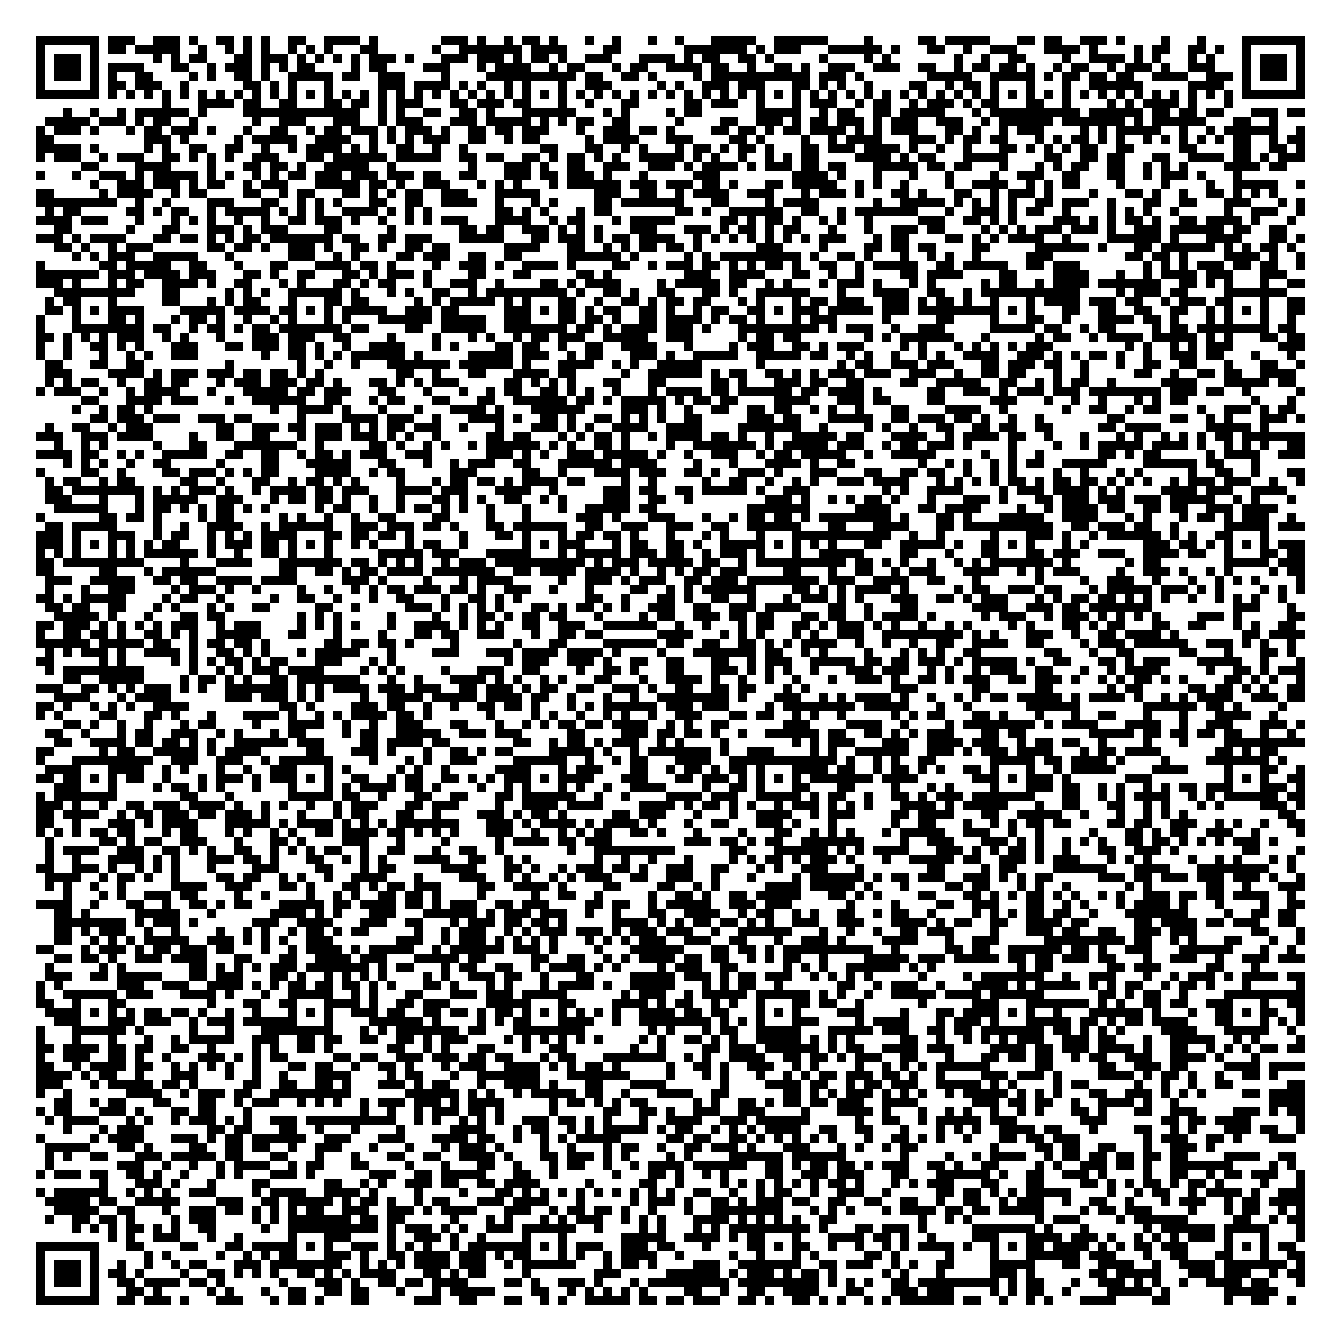
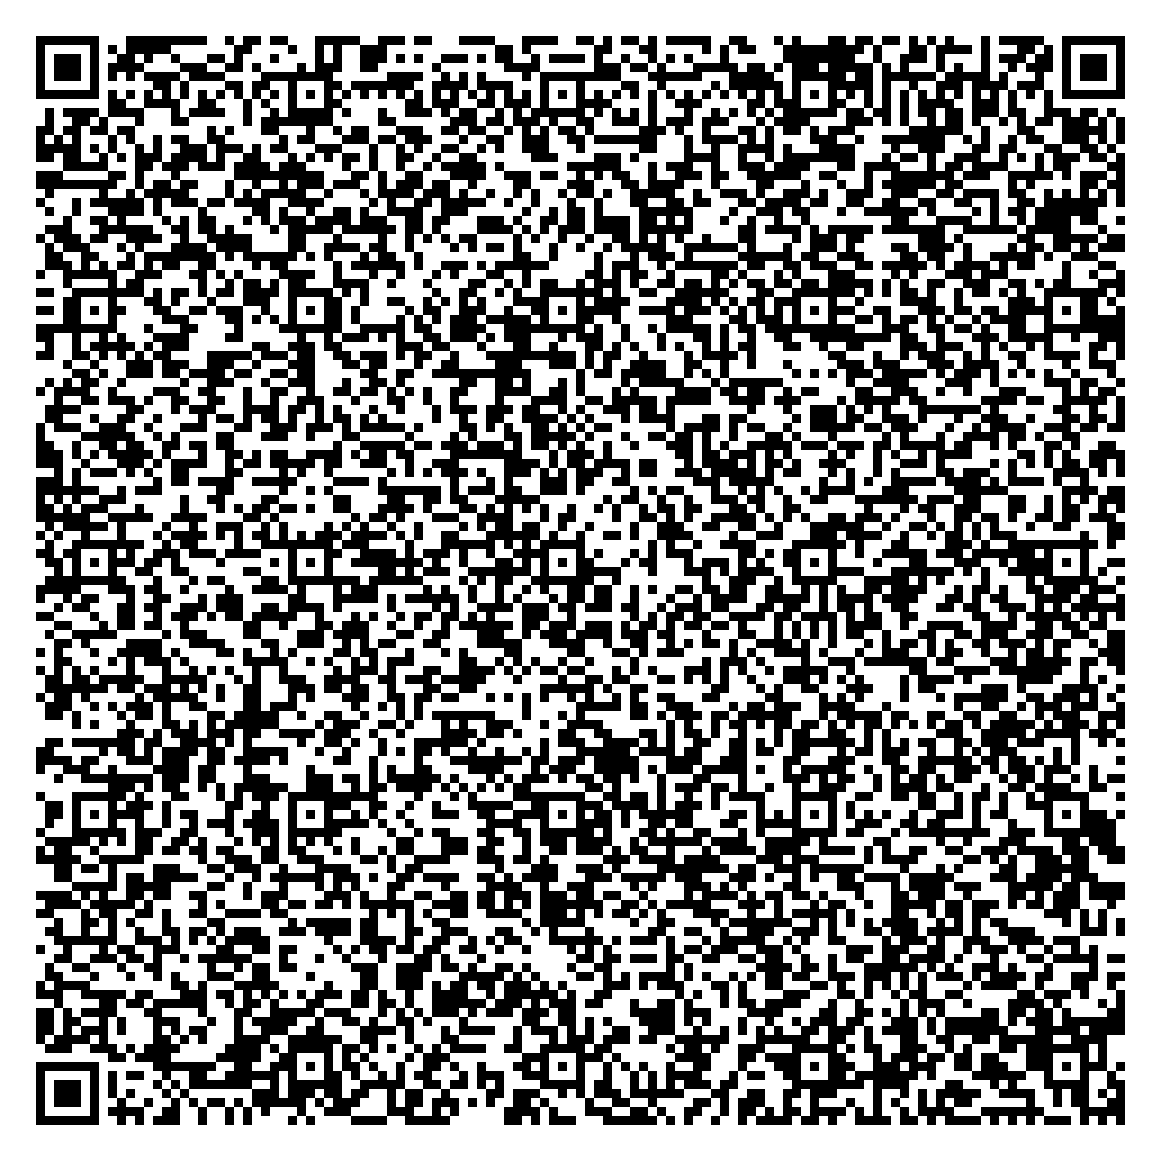
several minor changes

diff --git a/Gaqioi/Gaqioi.py b/Gaqioi/Gaqioi.py
@@ -1,1 +1,1 @@
-with open(__file__, 'r') as f: exec('try:\n    from MyQR import myqr\n    name = input(\u0022Gaqioi\\nCopyright (C) 2019 UniGasiX\\nLicensed under GPL v3.0\\n\u8bf7\u6307\u5b9a\u8f93\u51fa\u56fe\u7247\u7684\u6587\u4ef6\u540d\uff08\u4e0d\u542b\u6269\u5c55\u540d\uff09\uff1a\u0022)\n    myqr.run(\'' + f.read().replace('\\', '\\\\').replace('\'', '\\\'') + '\', save_name=name+\u0022.png\u0022)\nexcept ModuleNotFoundError:\n    print(\u0022\u9519\u8bef\uff01\u8fd9\u6bb5\u7a0b\u5e8f\u9700\u8981MyQR\u5e93\u3002\\n\u53ef\u4ee5\u5c1d\u8bd5\u547d\u4ee4 pip3 install myqr \u5b89\u88c5MyQR\u5e93\u3002\u0022)\n') # Copyright (C) 2019 UniGasiX | Licensed under GPL v3.0 | ATTENTION!!!: The MyQR module is needed. You may try ** pip3 install myqr ** to install.
+with open(__file__,'r') as f: exec('try:\n\tfrom MyQR import myqr\n\tprint(\'\u751f\u6210\u8def\u5f84\uff1a\'+myqr.run(\''+f.read().replace('\\','\\\\').replace('\'','\\\'')+'\',save_name=input(\'- by UniGasiX -\\n\u8bf7\u6307\u5b9a\u8f93\u51fa\u56fe\u7247\u6587\u4ef6\u540d\uff08\u4e0d\u542b\u6269\u5c55\u540d\uff09\uff1a\')+\'.png\',level=\'Q\')[2])\nexcept ModuleNotFoundError:\n\tprint(\'\u9519\u8bef\uff01\u8fd9\u6bb5\u7a0b\u5e8f\u9700\u8981\u4f7f\u7528MyQR\u5e93\u3002\\n\u53ef\u4ee5\u5c1d\u8bd5\u547d\u4ee4 pip3 install myqr \u5b89\u88c5MyQR\u5e93\u3002\')\n') # Copyright (C) 2019 UniGasiX | Licensed under GNU GPLv3.0 | ATTENTION!!!: The MyQR package is needed. You may try ** pip3 install myqr ** to install.

diff --git a/Gaqioi/Gaqioi_make.py b/Gaqioi/Gaqioi_make.py
@@ -30,6 +30,9 @@ allowed = r"0123456789ABCDEFGHIJKLMNOPQRSTUVWXYZabcdefghijklmnopqrstuvwxyz ··,
 # 转义特殊字符
 nested_str = nested_str.replace("\\", "\\\\").replace(
     "\n", "\\n").replace("'", "\\'")
+# 这里再做一点处理，因为微信扫描二维码结果会把连在一起的几个空格省略为一个，
+# 而代码又用了四个空格作为缩进，而许多人确实会用微信扫二维码
+nested_str = nested_str.replace("    ", "\\t")
 # 将所有不允许的字符转成unicode转义字符形式
 nested_str = "".join([(('\\u'+format(ord(c), 'x').zfill(4))
                        if c not in allowed else c) for c in nested_str])
@@ -43,6 +46,6 @@ shell_str = shell_str.replace("\n", "")
 
 # 在约定的占位符处插入nested
 gaqioi_str = shell_str.replace("ABRACADABRA1", nested_parts[0]).replace(
-    "ABRACADABRA2", nested_parts[1]) + " # Copyright (C) 2019 UniGasiX | Licensed under GPL v3.0 | ATTENTION!!!: The MyQR module is needed. You may try ** pip3 install myqr ** to install."
+    "ABRACADABRA2", nested_parts[1]) + " # Copyright (C) 2019 UniGasiX | Licensed under GNU GPLv3.0 | ATTENTION!!!: The MyQR package is needed. You may try ** pip3 install myqr ** to install."
 with open("Gaqioi.py", "w") as f:
     f.write(gaqioi_str)

diff --git a/Gaqioi/Gaqioi_nested.py b/Gaqioi/Gaqioi_nested.py
@@ -1,8 +1,10 @@
 # 有约定的占位符 ABRACADABRA
+# 这里用的是四个空格作为缩进，
+# 最后处理时会把每一组四个空格改成一个制表符并使用转义字符，
+# >>需要注意<<。
 
 try:
     from MyQR import myqr
-    name = input("Gaqioi\nCopyright (C) 2019 UniGasiX\nLicensed under GPL v3.0\n请指定输出图片的文件名（不含扩展名）：")
-    myqr.run('ABRACADABRA', save_name=name+".png")
+    print('生成路径：'+myqr.run('ABRACADABRA',save_name=input('- by UniGasiX -\n请指定输出图片文件名（不含扩展名）：')+'.png',level='Q')[2])
 except ModuleNotFoundError:
-    print("错误！这段程序需要MyQR库。\n可以尝试命令 pip3 install myqr 安装MyQR库。")
+    print('错误！这段程序需要使用MyQR库。\n可以尝试命令 pip3 install myqr 安装MyQR库。')

diff --git a/Gaqioi/Gaqioi_shell.py b/Gaqioi/Gaqioi_shell.py
@@ -3,4 +3,4 @@
 # 比如：必须是单行程序、只能用单引号、不得有不允许字符……
 
 
-with open(__file__, 'r') as f: exec('ABRACADABRA1' + f.read().replace('\\', '\\\\').replace('\'', '\\\'') + 'ABRACADABRA2')
+with open(__file__,'r') as f: exec('ABRACADABRA1'+f.read().replace('\\','\\\\').replace('\'','\\\'')+'ABRACADABRA2')

diff --git a/Gaqioi/README.md b/Gaqioi/README.md
@@ -2,7 +2,7 @@
 
 > It **G**enerates **A** **Q**RCode **I**mage **O**f **I**tself.
 >
-> *"加秋衣"* ~ ~
+> *"加秋衣" ~ ~*
 
 如名字所述，这个 Python 脚本程序会生成内容是它自己的 QR Code 图片。比较无聊。
 
@@ -16,7 +16,7 @@
 
 在这个路径下使用 Python 运行代码 ```Gaqioi_make.py``` 即可。
 
-### 运行最后的程序
+### 运行最终程序
 
 需要确保你拥有 Python 的执行环境，并添加了 MyQR 库。
 
@@ -26,7 +26,7 @@
 pip3 install myqr
 ```
 
-然后就是用 Python 运行该脚本就是了。
+然后就是用 Python 运行那个 ```Gaqioi.py``` 就是了。
 
 没什么意外的话，在指定完图片文件名后，当前工作目录下就会有生成的二维码图片了，然后就可以扫码，得到程序代码，保存好文件，用 Python 运行，得到二维码图片，然后就可以扫码，得到程序代码，保存好文件，用 Python 运行，得到二维码图片，然后就可以扫码，得到程序代码，保存好文件，用 Python 运行，得到二维码图片，然后就可以……
 
@@ -40,15 +40,15 @@ pip3 install myqr
 
 ### Gaqioi_shell.py
 
-该文件包含读取程序自身代码的代码和 ```exec()``` 函数。
+该文件包含读取程序自身代码的代码和对 ```exec()``` 函数的调用。
 
 ### Gaqioi_nested.py
 
-该文件包含用于实际生成图片的代码。
+该文件包含调用 ```myqr.run()``` 实际生成图片的代码。
 
 ### Gaqioi_make.py
 
-该文件用于最终合成出 Gaqioi.py 。
+该文件用于最终合成出 ```Gaqioi.py``` 。
 
 ### Gaqioi.py
 
@@ -62,7 +62,7 @@ pip3 install myqr
 
 ## 吐槽
 
-MyQR 库好鸡肋啊……迫使本来极其简单的程序变复杂了……
+MyQR 库好鸡肋啊……迫使**本来极其简单**的程序变复杂了……
 
 > *另外，*
 >
@@ -70,4 +70,4 @@ MyQR 库好鸡肋啊……迫使本来极其简单的程序变复杂了……
 >
 > *我为什么要把这个 ```README.md``` 写这么多？……*
 >
-> *不懂的人看完照样不懂啊……*
+> *就几行代码要什么readme……*
